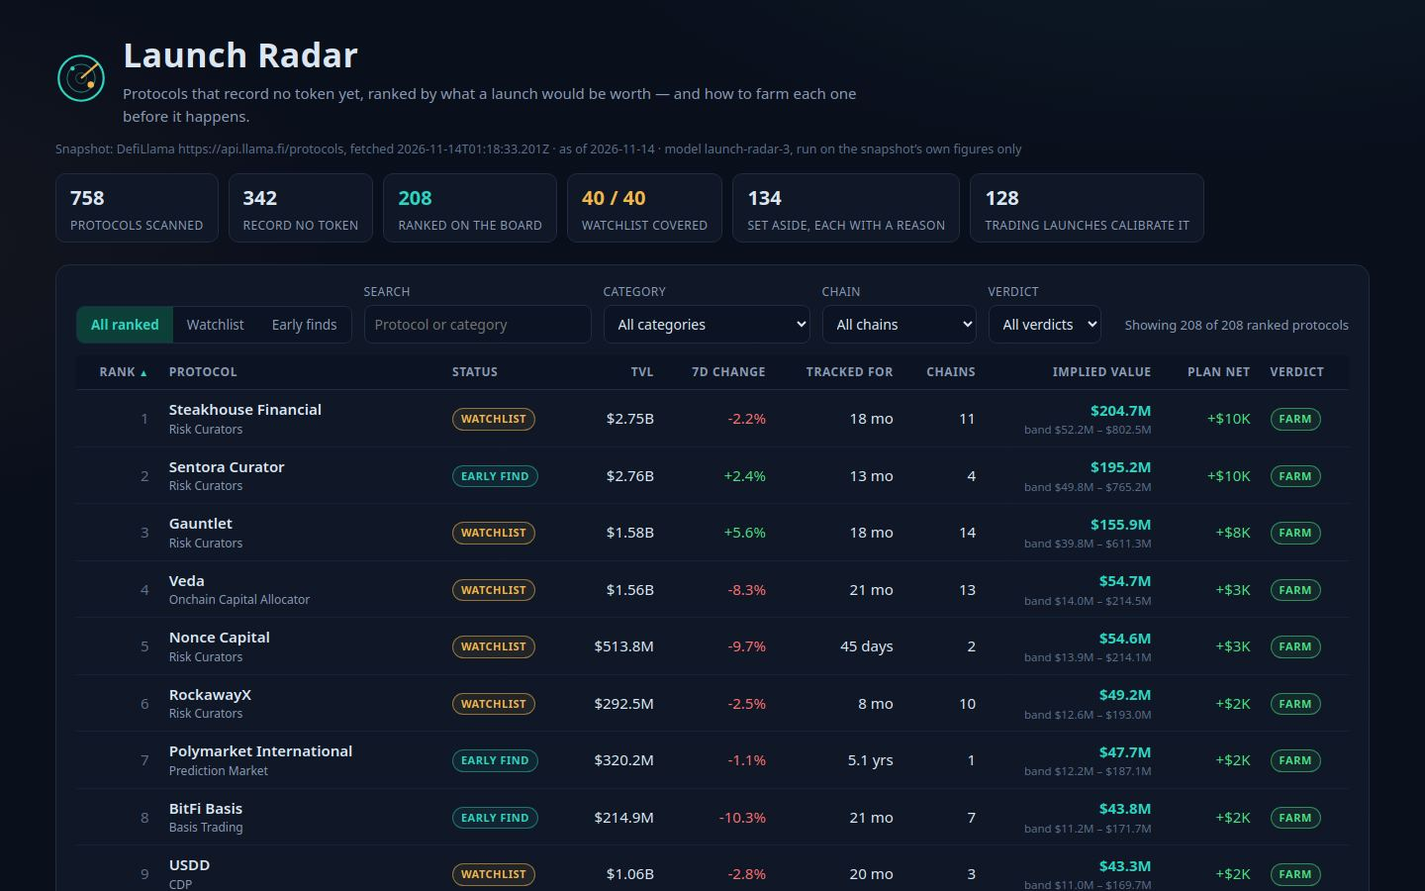
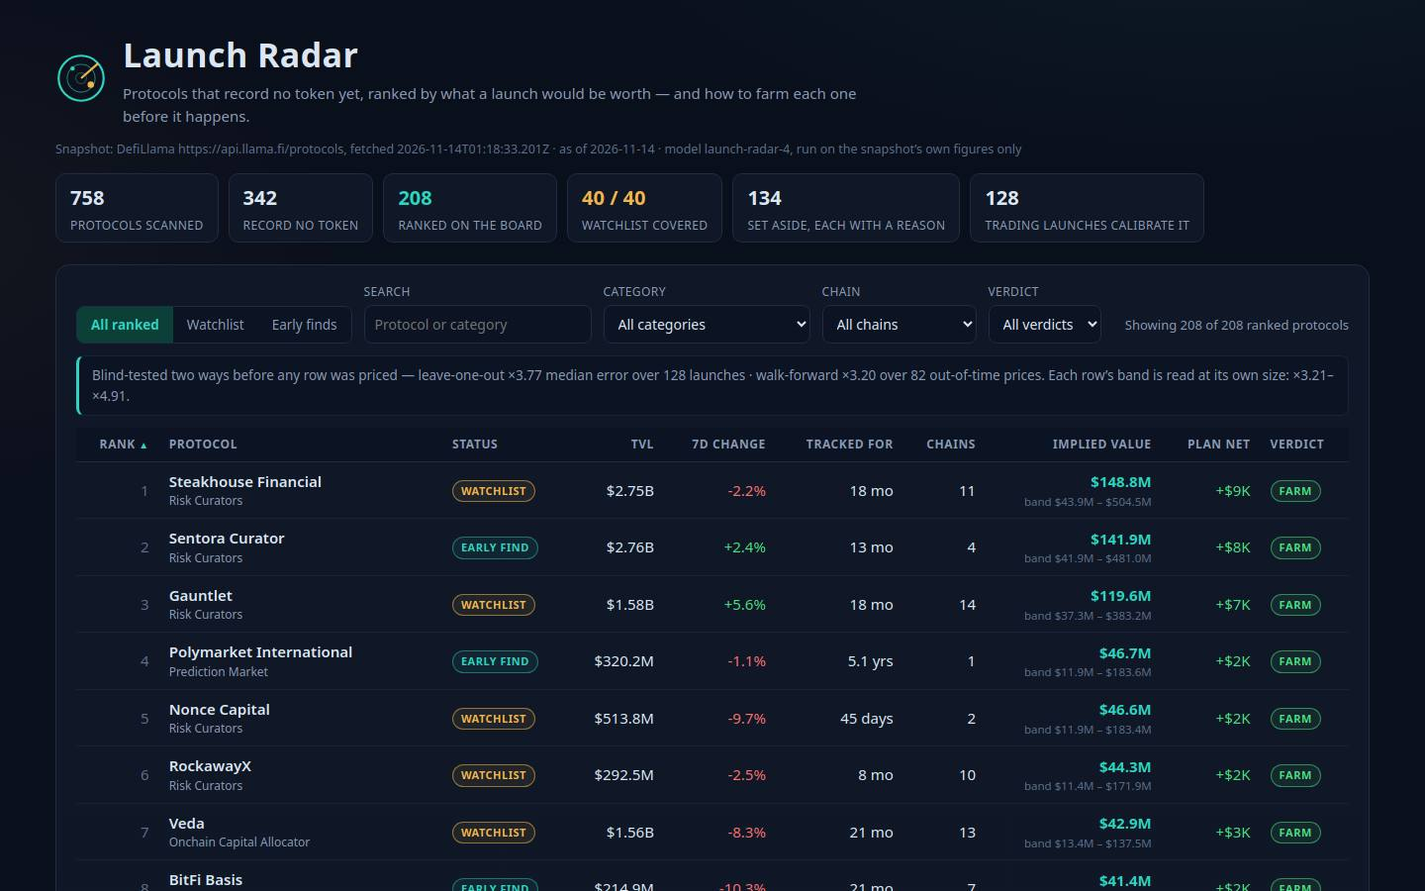
Launch Radar v3, dashboard: dual blind tests up front, evidence chart, local bands, rejected tests
- Board view opens with a validation strip: leave-one-out x3.77 and walk-forward
  x3.20 earned multiples plus the per-row band range, above the table.
- Model panel rebuilt around the evidence: formula (median fit), both blind
  tests with the walk-forward cutoff table, the local-band method with its
  52% read-back coverage, then an SVG scatter drawn from the fitted data —
  128 traded launches at actual caps, the fitted curve with its global band,
  and all 208 board rows at implied value.
- 'Tested and rejected' block publishes the home-chain offsets (LOO x3.32 but
  walk-forward x3.26, worse than the model's x3.20) and the two-segment hinge
  (x3.84 at a 5M break) with the numbers that turned them down.
- Detail view: the band line now shows the row's own local band and its
  neighbourhood; a new 'Nearest traded comparables' section lists the three
  traded launches closest in size with their caps, ratios and blind errors.
- Audit text records the line-by-line re-read of all 134 set-aside protocols.
- Screenshots re-shot at quality 72 (~100 KB each; the model frame is
  1440x1180 so the whole chart sits in shot): dossier 637,394 bytes, down
  from v2's 731,027 with more content. Gate audit all-pass; two consecutive
  runs byte-identical; zero page errors across every view.

diff --git a/dashboard/js/live.js b/dashboard/js/live.js
@@ -1,6 +1,7 @@
-// The masthead figures, the model panel (the fitted curve, the blind backtest that prices
-// it, its factors, the netting rules, the offset table and the audit of everything the
-// board set aside) and the already-trading table the curve is fitted to.
+// The masthead figures, the model panel (the fitted curve, the two blind tests that price
+// it, the chart of the evidence, its factors, the netting rules, the refinements the tests
+// rejected, the offset table and the audit of everything the board set aside) and the
+// already-trading table the curve is fitted to.
 (function () {
   'use strict';
 
@@ -29,38 +30,113 @@
     return A.el('div', { class: 'factor' }, A.el('h3', null, title), A.el('p', null, body));
   }
 
+  // The evidence as one picture: every traded launch at the cap it trades at, the fitted
+  // curve through them with its global band, and every board row at its implied value.
+  // Drawn from the same data the model fitted — nothing here is placed by hand.
+  function scatterSvg() {
+    var W = 720, H = 352, L = 66, R = 14, T = 10, B = 32;
+    var fit = DATA.fit;
+    var xs = [], ys = [];
+    DATA.comps.forEach(function (c) { xs.push(Math.log10(c.tvl_usd)); ys.push(Math.log10(c.mcap_usd)); });
+    DATA.rows.forEach(function (r) { xs.push(Math.log10(r.tvl_usd)); ys.push(Math.log10(r.implied_value_usd)); });
+    var x0 = Math.floor(Math.min.apply(null, xs)), x1 = Math.ceil(Math.max.apply(null, xs));
+    var y0 = Math.floor(Math.min.apply(null, ys)), y1 = Math.ceil(Math.max.apply(null, ys));
+    function px(x) { return L + ((x - x0) / (x1 - x0)) * (W - L - R); }
+    function py(y) { return T + (1 - (y - y0) / (y1 - y0)) * (H - T - B); }
+    function lineY(x) { return fit.intercept + fit.slope * x; }
+    var bandDex = Math.log10(DATA.band.global_multiple);
+    var out = ['<svg viewBox="0 0 ' + W + ' ' + H + '" role="img" aria-label="Traded launches, the fitted size curve, and the board\u2019s implied values">'];
+    for (var gx = x0; gx <= x1; gx++) {
+      out.push('<line x1="' + px(gx) + '" y1="' + T + '" x2="' + px(gx) + '" y2="' + (H - B) + '" stroke="#17233a" stroke-width="1"/>');
+      out.push('<text x="' + px(gx) + '" y="' + (H - B + 20) + '" fill="#5d6f8a" font-size="11" text-anchor="middle">' + A.fmtUsd(Math.pow(10, gx)) + '</text>');
+    }
+    for (var gy = y0; gy <= y1; gy++) {
+      out.push('<line x1="' + L + '" y1="' + py(gy) + '" x2="' + (W - R) + '" y2="' + py(gy) + '" stroke="#17233a" stroke-width="1"/>');
+      out.push('<text x="' + (L - 8) + '" y="' + (py(gy) + 4) + '" fill="#5d6f8a" font-size="11" text-anchor="end">' + A.fmtUsd(Math.pow(10, gy)) + '</text>');
+    }
+    out.push('<path d="M' + px(x0) + ' ' + py(lineY(x0) + bandDex) + ' L' + px(x1) + ' ' + py(lineY(x1) + bandDex) +
+      ' L' + px(x1) + ' ' + py(lineY(x1) - bandDex) + ' L' + px(x0) + ' ' + py(lineY(x0) - bandDex) + ' Z" fill="rgba(240,182,76,0.08)"/>');
+    out.push('<line x1="' + px(x0) + '" y1="' + py(lineY(x0)) + '" x2="' + px(x1) + '" y2="' + py(lineY(x1)) + '" stroke="#f0b64c" stroke-width="2"/>');
+    DATA.comps.forEach(function (c) {
+      out.push('<circle cx="' + px(Math.log10(c.tvl_usd)).toFixed(1) + '" cy="' + py(Math.log10(c.mcap_usd)).toFixed(1) + '" r="3" fill="#2dd4bf" fill-opacity="0.75"/>');
+    });
+    DATA.rows.forEach(function (r) {
+      out.push('<circle cx="' + px(Math.log10(r.tvl_usd)).toFixed(1) + '" cy="' + py(Math.log10(r.implied_value_usd)).toFixed(1) + '" r="2.6" fill="none" stroke="#f0b64c" stroke-opacity="0.85"/>');
+    });
+    out.push('</svg>');
+    return out.join('');
+  }
+
   function renderModel() {
     var s = DATA.stats;
     var c = DATA.constants;
     var fit = DATA.fit;
     var bt = DATA.backtest;
+    var wf = DATA.walkforward;
+    var band = DATA.band;
     var host = document.getElementById('model-body');
     host.appendChild(A.el('p', { class: 'formula' },
       'Implied value = ', A.el('b', null, '$' + fit.base_usd + ' × TVL^' + fit.slope.toFixed(2)),
-      ' (the fitted size curve) × ', A.el('b', null, 'category offset'), ' × ', A.el('b', null, 'momentum'),
+      ' (the fitted size curve, a median fit) × ', A.el('b', null, 'category offset'), ' × ', A.el('b', null, 'momentum'),
       ' × ', A.el('b', null, 'track record'), ' × ', A.el('b', null, 'breadth')));
 
-    // The blind test, first: it is the evidence the whole board stands on.
-    host.appendChild(A.el('h3', null, 'The blind test — this function, priced against launches that already happened'));
+    // The blind tests, first: they are the evidence the whole board stands on.
+    host.appendChild(A.el('h3', null, 'The blind tests — this function, priced against launches that already happened'));
     host.appendChild(A.el('p', { class: 'section-note' },
-      'The test refits the curve and the offsets ' + bt.n + ' times, each time leaving one traded protocol out, ' +
-      'then prices the left-out protocol with the full function — curve, its category\u2019s offset, its own momentum, ' +
-      'track record and breadth — and compares the price with the market cap it actually trades at. Nothing in the ' +
-      'test was tuned after it ran: these are the errors the function earned, and the band printed around every ' +
-      'row of the board is its median error.'));
+      'Two tests, run two different ways, neither tuned after it ran. Leave-one-out: the fit is repeated ' + bt.n +
+      ' times, each time leaving one traded protocol out, then the left-out protocol is priced with the full function — ' +
+      'curve, its category\u2019s offset, its own momentum, track record and breadth — and compared with the market cap ' +
+      'it actually trades at. Walk-forward: the fit is made only on the launches DefiLlama tracked before a cutoff, ' +
+      'then priced against the launches that came after — the model tested the way it is used, on a future it had not seen. ' +
+      wf.undated + ' of the ' + bt.n + ' traded launches carry no tracking date, so they can sit only the first test.'));
     var tiles = A.el('div', { class: 'stats' });
-    tiles.appendChild(stat('×' + bt.median_multiple.toFixed(2), 'median error, the board\u2019s band'));
-    tiles.appendChild(stat(String(bt.n), 'launches tested, one at a time'));
-    tiles.appendChild(stat(bt.within_2x_pct + '%', 'priced within ×2 of the market'));
-    tiles.appendChild(stat('×' + bt.p25_multiple.toFixed(2) + ' – ×' + bt.p75_multiple.toFixed(2), 'the middle half of errors'));
+    tiles.appendChild(stat('×' + bt.median_multiple.toFixed(2), 'leave-one-out median error'));
+    tiles.appendChild(stat('×' + wf.median_multiple.toFixed(2), 'walk-forward median error'));
+    tiles.appendChild(stat(bt.within_2x_pct + '%', 'priced within ×2, leave-one-out'));
+    tiles.appendChild(stat(wf.within_2x_pct + '%', 'priced within ×2, walk-forward'));
     host.appendChild(tiles);
+    var wtable = A.el('table', { class: 'wf-table' });
+    wtable.appendChild(A.el('thead', null, A.el('tr', null,
+      A.el('th', null, 'Walk-forward cutoff'), A.el('th', { class: 'num' }, 'Fitted on'),
+      A.el('th', { class: 'num' }, 'Priced'), A.el('th', { class: 'num' }, 'Median error'),
+      A.el('th', { class: 'num' }, 'Middle half'), A.el('th', { class: 'num' }, 'Within ×2'))));
+    var wbody = A.el('tbody', null);
+    wf.cutoffs.forEach(function (row) {
+      var tr = A.el('tr', null,
+        A.el('td', null, 'Launches tracked before ' + row.cutoff),
+        A.el('td', { class: 'num' }, String(row.trained)),
+        A.el('td', { class: 'num' }, String(row.tested)),
+        A.el('td', { class: 'num' }, '×' + row.median_multiple.toFixed(2)),
+        A.el('td', { class: 'num' }, '×' + row.p25_multiple.toFixed(2) + ' – ×' + row.p75_multiple.toFixed(2)),
+        A.el('td', { class: 'num' }, row.within_2x_pct + '%'));
+      tr.style.cursor = 'default';
+      wbody.appendChild(tr);
+    });
+    wtable.appendChild(wbody);
+    host.appendChild(wtable);
+    host.appendChild(A.el('p', { class: 'section-note' },
+      'The band around each row is read locally from the leave-one-out runs: the median error of the ' + band.neighbours +
+      ' traded launches nearest the row\u2019s own size, shrunk toward the test\u2019s global median (×' + band.global_multiple.toFixed(2) +
+      ', prior weight ' + band.shrink + '). Across the board the bands run ×' + band.min_multiple.toFixed(2) + ' to ×' + band.max_multiple.toFixed(2) +
+      '. Read back against the test itself — each launch banded by the others — bands drawn this way held the launch they priced ' +
+      band.coverage_pct + '% of the time, the half a median band should hold.'));
+
+    host.appendChild(A.el('h3', null, 'The evidence — every traded launch, and where the board\u2019s claims sit'));
+    var chart = A.el('div', { class: 'chart-wrap' });
+    chart.innerHTML = scatterSvg();
+    host.appendChild(chart);
+    host.appendChild(A.el('p', { class: 'chart-legend' },
+      'Teal dots: the ' + DATA.comps.length + ' traded launches, at the market cap they trade at. Amber rings: this board\u2019s ' +
+      s.board_rows + ' rows, at their implied values. The amber line is the fitted curve; the shaded span is its global band, ' +
+      '÷/× ' + band.global_multiple.toFixed(2) + '. Both axes are log scales; the chart is drawn by this page from the same figures the model fitted.'));
 
     var factors = A.el('div', { class: 'factors' });
     factors.appendChild(factorCard('Size curve — what the traded launches trace',
-      'An ordinary least-squares line through log market cap against log TVL over the ' + fit.comps + ' protocols ' +
-      'whose token already trades, each ratio first winsorised to [' + c.ratio_floor + ', ' + c.ratio_cap + '] so one ' +
-      'protocol pricing an off-chain business cannot bend the line. The slope is ' + fit.slope.toFixed(2) + ', not 1: ' +
-      'worth grows slower than TVL, which is what the launches themselves say.'));
+      'A line through log market cap against log TVL over the ' + fit.comps + ' protocols whose token already trades, ' +
+      'fitted to the median launch — half above it, half below — with each ratio first clamped to [' + c.ratio_floor + ', ' +
+      c.ratio_cap + '] so a data error cannot dominate. A mean fit is pulled toward the few launches that priced an ' +
+      'off-chain business; the median answers what the typical launch of a size was worth. The slope is ' + fit.slope.toFixed(2) +
+      ', not 1: worth grows slower than TVL, which is what the launches themselves say.'));
     factors.appendChild(factorCard('Category offset — what a category adds',
       'Each category\u2019s mean distance from the curve, shrunk toward the curve itself by sample size (prior weight ' +
       c.offset_shrink + '), so a category with one traded launch borrows almost all of the curve and one with fifteen ' +
@@ -83,12 +159,27 @@
     host.appendChild(A.el('p', { class: 'section-note' },
       'Each plan\u2019s cash costs are the gas its own steps name, summed at the midpoint of each chain\u2019s range. ' +
       'The netting assumes a qualifying wallet\u2019s expected take is ' + (c.wallet_share * 100).toFixed(2) + '% of the ' +
-      'launch\u2019s value at the band\u2019s low end — a stated assumption, not a reading of any protocol\u2019s plans — ' +
+      'launch\u2019s value at the row\u2019s own band low end — a stated assumption, not a reading of any protocol\u2019s plans — ' +
       'and charges the plan those costs plus the Treasury-bill yield the deployed capital would have earned while ' +
       'it sat in the protocol (' + (c.tbill_rate * 100).toFixed(0) + '% a year over the plan\u2019s own hold). ' +
       'FARM: the take covers the whole cost at least ' + c.farm_margin + ' times over. THIN: the net is positive but ' +
       'thinner than that. SKIP: the take does not cover the costs. Across the board: ' +
       s.verdicts.FARM + ' FARM, ' + s.verdicts.THIN + ' THIN, ' + s.verdicts.SKIP + ' SKIP.'));
+
+    host.appendChild(A.el('h3', null, 'Tested and rejected — what the model does not do, and why'));
+    host.appendChild(A.el('p', { class: 'section-note' },
+      'A refinement earns its place only if both blind tests prefer it. These two were offered the same tests and turned down:'));
+    var rlist = A.el('ul', { class: 'model-notes' });
+    DATA.rejected.forEach(function (t) {
+      var line = t.label + ' — ' + t.detail + '. Leave-one-out: ×' + t.loo_multiple.toFixed(2) +
+        ' (the model: ×' + bt.median_multiple.toFixed(2) + ')';
+      if (t.wf_multiple !== null) {
+        line += '; walk-forward: ×' + t.wf_multiple.toFixed(2) + ' (the model: ×' + wf.median_multiple.toFixed(2) + ')';
+      }
+      line += '. Left out.';
+      rlist.appendChild(A.el('li', null, line));
+    });
+    host.appendChild(rlist);
 
     host.appendChild(A.el('h3', null, 'The category offsets — with the evidence behind each'));
     var table = A.el('table', null);
@@ -114,7 +205,9 @@
       s.watchlist_size + ' watchlist protocols, every other standalone protocol the screen passes, and ' +
       s.rescued + ' versioned deployments the re-audit rescued (a name ending in a version marker, ranked ' +
       'flagged when no un-versioned protocol of the same name is ranked — it is that protocol\u2019s current ' +
-      'deployment, not a product of a traded token). The ' + s.not_ranked + ' set aside, by reason:'));
+      'deployment, not a product of a traded token). The set-aside list was re-read line by line for this version: ' +
+      'every one of the ' + s.not_ranked + ' is an exchange\u2019s custody page, a wrapped or staked product of a token ' +
+      'that already trades, or a bridge of one, and none was restored. The ' + s.not_ranked + ' set aside, by reason:'));
     var reasonList = A.el('ul', { class: 'model-notes' });
     DATA.audit_reasons.forEach(function (r) {
       reasonList.appendChild(A.el('li', null, A.el('b', null, r.count + ' — '), r.reason));
@@ -143,7 +236,8 @@
     [
       ['Pre-token only. ', 'The ranked board never contains a protocol whose token trades. Those are the calibration set below — shown at the market\u2019s own value, never at a model\u2019s.'],
       ['The watchlist is the floor. ', 'All ' + s.watchlist_size + ' watchlist protocols are ranked; the board\u2019s other ' + s.early_rows + ' rows are early finds the same screen passes below the $50M line.'],
-      ['The band is earned, not chosen. ', 'Half of the traded launches in the blind test landed within ×' + bt.median_multiple.toFixed(2) + ' of the price this function gave them. A row\u2019s band is that error, applied to the row — wide, because pricing a launch from TVL is genuinely uncertain, and printed because hiding it would be worse.'],
+      ['Two tests, not one. ', 'Leave-one-out can flatter a pattern the present happens to hold; the walk-forward test is the check on that — it is the test that vetoed the home-chain offsets above. A number is only printed here if a blind test earned it.'],
+      ['The band is local, and earned. ', 'A row\u2019s band is the blind test\u2019s error among launches of the row\u2019s own size, not a round number chosen for the page — wide, because pricing a launch from TVL is genuinely uncertain, and printed because hiding it would be worse.'],
       ['Thin evidence is shrunk. ', 'A category with few traded launches is priced mostly by the curve; the sample size behind every offset is printed in the table, so a reader can discount a thin one themselves.'],
       ['No names are special-cased. ', 'One function prices every row from the snapshot\u2019s figures, and the same function computes the board and this page — re-run the program and every figure comes back byte for byte.'],
     ].forEach(function (pair) {

diff --git a/dashboard/js/detail.js b/dashboard/js/detail.js
@@ -39,7 +39,7 @@
     var m = row.model;
     var plan = row.plan;
     var fit = DATA.fit;
-    var bt = DATA.backtest;
+    var band = DATA.band;
     var drawer = document.getElementById('drawer');
     var scrim = document.getElementById('scrim');
     drawer.textContent = '';
@@ -89,9 +89,28 @@
     workings.appendChild(A.el('div', { class: 'line total' },
       A.el('span', null, 'Implied value of a launch'), A.el('b', null, A.fmtUsd(row.implied_value_usd))));
     workings.appendChild(plainLine(
-      'Backtest band — ÷/× ' + bt.median_multiple.toFixed(2) + ', the blind test\u2019s median error',
+      'Local band — ÷/× ' + row.band_multiple.toFixed(2) + ', from the ' + band.neighbours +
+        ' traded launches nearest this size (global ×' + band.global_multiple.toFixed(2) + ')',
       A.fmtUsd(row.band_low_usd) + ' – ' + A.fmtUsd(row.band_high_usd)));
     drawer.appendChild(workings);
+
+    drawer.appendChild(A.el('h3', null, 'Nearest traded comparables'));
+    var comps = A.el('div', { class: 'workings' });
+    var here = Math.log10(Math.max(1, row.tvl_usd));
+    var nearest = DATA.comps.slice().sort(function (a, b) {
+      var d = Math.abs(Math.log10(a.tvl_usd) - here) - Math.abs(Math.log10(b.tvl_usd) - here);
+      return d !== 0 ? d : (a.slug < b.slug ? -1 : 1);
+    }).slice(0, 3);
+    nearest.forEach(function (comp) {
+      comps.appendChild(plainLine(
+        comp.name + ' — TVL ' + A.fmtUsd(comp.tvl_usd) + ', trades at ' + A.fmtUsd(comp.mcap_usd) +
+          ' (' + (comp.mcap_usd / comp.tvl_usd).toFixed(2) + '× TVL)',
+        'blind error ×' + comp.loo_multiple.toFixed(2)));
+    });
+    comps.appendChild(A.el('p', { class: 'comp-note' },
+      'The traded launches closest to this protocol\u2019s size, and the error the blind test earned on each — ' +
+      'the local evidence this row\u2019s band is read from.'));
+    drawer.appendChild(comps);
 
     drawer.appendChild(A.el('h3', null, 'The netting'));
     var netting = A.el('div', { class: 'workings' });

diff --git a/dashboard/index.html b/dashboard/index.html
@@ -48,6 +48,7 @@
       </label>
       <span class="count" id="count"></span>
     </div>
+    <p class="validation-strip" id="validation-strip"></p>
     <div class="table-wrap">
       <table id="board-table">
         <thead>
@@ -67,7 +68,7 @@
         <tbody id="board-body"></tbody>
       </table>
     </div>
-    <p class="table-note">Implied value is this board's own claim: a size curve fitted to the launches that already trade, a category offset, then momentum &times; track record &times; breadth — with the blind backtest's band around it (the small line under each value). The plan net is the row's farm plan netted at the band's low end; the verdict is FARM, THIN or SKIP. Click a row for the full workings, the netting and the plan. “Records no token” is DefiLlama's record as of the snapshot date, not proof a token does not exist.</p>
+    <p class="table-note">Implied value is this board's own claim: a size curve fitted to the launches that already trade, a category offset, then momentum &times; track record &times; breadth — with a band around it read from the blind tests at the row's own size (the small line under each value). The plan net is the row's farm plan netted at its own band's low end; the verdict is FARM, THIN or SKIP. Click a row for the full workings, the traded launches nearest its size, the netting and the plan. “Records no token” is DefiLlama's record as of the snapshot date, not proof a token does not exist.</p>
   </section>
 
   <section class="card" id="model-card" aria-label="How the radar values a launch">

diff --git a/dashboard/css/radar.css b/dashboard/css/radar.css
@@ -170,6 +170,17 @@ td.name small.flag-note { color: var(--amber); }
 .field input { width: 230px; }
 .count { margin-left: auto; color: var(--muted); font-size: 13px; padding-bottom: 9px; }
 
+.validation-strip {
+  background: var(--panel-deep);
+  border: 1px solid var(--line-soft);
+  border-left: 3px solid var(--teal);
+  border-radius: 8px;
+  padding: 9px 13px;
+  color: var(--muted);
+  font-size: 13.5px;
+  margin: 0 0 12px;
+}
+
 /* Model panel ------------------------------------------------------------------ */
 
 .formula {
@@ -189,6 +200,17 @@ td.name small.flag-note { color: var(--amber); }
 .factor p b { color: var(--ink); }
 #model-card table { max-width: 760px; }
 #model-card td, #model-card th { white-space: normal; }
+#model-card .wf-table { margin: 10px 0 4px; }
+.chart-wrap {
+  background: var(--panel-deep);
+  border: 1px solid var(--line-soft);
+  border-radius: 8px;
+  padding: 12px 14px 6px;
+  margin: 8px 0 6px;
+}
+.chart-wrap svg { width: 100%; height: auto; display: block; }
+.chart-legend { color: var(--muted); font-size: 12.5px; margin: 4px 2px 10px; }
+.comp-note { color: var(--muted); font-size: 12.5px; margin: 8px 0 0; }
 .model-notes { color: var(--muted); font-size: 13.5px; padding-left: 18px; }
 .model-notes li { margin-bottom: 5px; }
 .model-notes b { color: var(--ink); }

diff --git a/dashboard/js/board.js b/dashboard/js/board.js
@@ -96,6 +96,14 @@
 
   function init(selectHandler) {
     onSelect = selectHandler;
+    var strip = document.getElementById('validation-strip');
+    if (strip) {
+      strip.textContent =
+        'Blind-tested two ways before any row was priced — leave-one-out ×' + DATA.backtest.median_multiple.toFixed(2) +
+        ' median error over ' + DATA.backtest.n + ' launches · walk-forward ×' + DATA.walkforward.median_multiple.toFixed(2) +
+        ' over ' + DATA.walkforward.tested + ' out-of-time prices. Each row\u2019s band is read at its own size: ×' +
+        DATA.band.min_multiple.toFixed(2) + '–×' + DATA.band.max_multiple.toFixed(2) + '.';
+    }
     var categories = Array.from(new Set(DATA.rows.map(function (r) { return r.category || 'Uncategorised'; }))).sort();
     var chains = Array.from(new Set(DATA.rows.flatMap(function (r) { return r.chains; }))).sort();
     fillSelect('category', categories, 'All categories');

diff --git a/README.md b/README.md
@@ -4,7 +4,7 @@
 [![rank](https://make.fun/badge/token-radar-01/Nughair/token-radar/rank.svg)](https://make.fun/bounty/token-radar-01/leaderboard?utm_source=github&utm_medium=readme&utm_campaign=token-radar-01)
 [![reward](https://make.fun/badge/token-radar-01/Nughair/token-radar/reward.svg)](https://make.fun/bounty/token-radar-01?utm_source=github&utm_medium=readme&utm_campaign=token-radar-01)
 
-Launch Radar — a token launch radar over a sealed DefiLlama snapshot of 758 protocols. It ranks 208 pre-token protocols by an implied launch value derived only from the snapshot's own figures: a log-log size curve fitted to the 128 protocols whose token already trades (each ratio winsorised first), a per-category offset shrunk by sample size, then adjustments for 7-day momentum, track record and chain breadth. The model is blind-tested leave-one-out against those same traded launches — median error ×3.92 — and that earned error is printed as a band around every row. Every farm plan is netted (expected take at the band's low end, minus the plan's own gas costs, minus the Treasury-bill yield forgone on its capital) into a net dollar figure and a FARM / THIN / SKIP verdict. All 40 watchlist protocols are covered, and every protocol the board does not rank is listed with its reason. The dashboard is sortable and filterable (verdict included), with a per-protocol detail view that shows the model's workings factor by factor, the band, and the netting.
+Launch Radar — a token launch radar over a sealed DefiLlama snapshot of 758 protocols. It ranks 208 pre-token protocols by an implied launch value derived only from the snapshot's own figures: a log-log size curve fitted to the median of the 128 protocols whose token already trades, a per-category offset shrunk by sample size, then adjustments for 7-day momentum, track record and chain breadth. The model is blind-tested two ways against those same traded launches — leave-one-out (median error ×3.77) and walk-forward, fitted only on launches tracked before 2024 and before 2025 and priced against those after (×3.20) — and each row's band is read locally from the first test, at the row's own size. Two refinements the tests rejected (home-chain offsets, a two-segment curve) are published with their numbers. Every farm plan is netted (expected take at the row's band low end, minus the plan's own gas costs, minus the Treasury-bill yield forgone on its capital) into a net dollar figure and a FARM / THIN / SKIP verdict. All 40 watchlist protocols are covered, and every protocol the board does not rank is listed with its reason. The dashboard is sortable and filterable (verdict included), with a per-protocol detail view that shows the model's workings factor by factor, the traded launches nearest the row's size, the band, and the netting; the model panel charts every traded launch against the fitted curve with the board's rows overlaid.
 
 ## Run it
 
